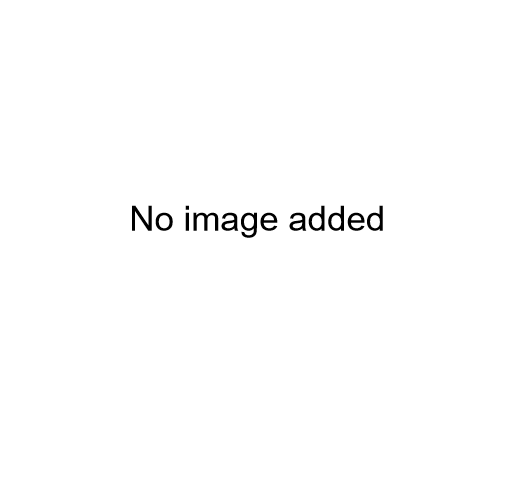
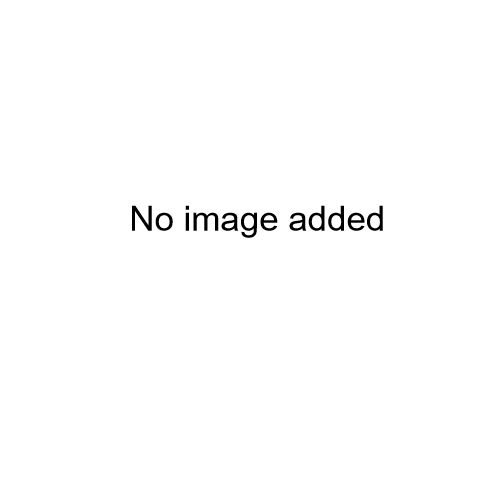
Resized placeholder image; added extra testcase; updated Readme

Changed region(s): [[0.24, 0.3971, 0.78, 0.4888]]

diff --git a/README.md b/README.md
@@ -109,6 +109,8 @@ This page would be for admin only so that they can add new cuisines, or modify t
 + Adding an image works as intended
 + Adding no image adds a default image instead called no_image.png to maintain quality of main page
 
+![testcase8](readme_docs/testcases/testcase8.png "Test Case 8")
+
 ### Test Case: Edit Place
 + All fields are prefilled with database information
 + All fields can be edited and saved
@@ -138,12 +140,10 @@ This page would be for admin only so that they can add new cuisines, or modify t
 ### Log Out
 + Log out functionality works, immediately logging the user out and returning them to the front page
 
-
-
 ### Bugs discovered
 + Properly aligning icons in buttons proved to be a challenge, and also to the 'takeaway' toggle. I ended up having to provide some very specifically-targeted CSS for the takeaway toggle
 + The default text on the 'create place' interface is in three different types of grey - black for the dropdowns, light grey for the image, and mid-grey for the remaining fields. Despite extensive effort, I've not been able to change this.
-+ Late in the production process, some changes I made meant that the first card of a new row rendered on the right hand side rather than the left. 
++ Late in the production process, some changes I made meant that the first card of a new row rendered on the right hand side rather than the left. This was introduced while adding the 'display placeholder image if none is provided' code; ultimately this was fixed by modifying the CSS. Following this, I rechecked the CSS and the app.py using the Code Institute linter, with both still passing with no errors.
 
 ## Code validation
 
@@ -184,7 +184,7 @@ To clone the repository from Github in your editor of choice:
 + Clone the repository by running: git clone https://github.com/stevecook23/angel-food.git
 + Change directories into the cloned repository: cd angel-food
 
-Now you have a copy of the source code and can start to work on it.
+Now you have a copy of the source code and can start to work on it. Bear in mind that the contents of the .env file, or the environment variables throughout the project, will not be publicly available - you will need to provide this file and these details yourself.
 
 ### Entity Relationship Document
 ![entity_relationship_document](readme_docs/testcases/entity_relationship_document.png "Entity Relationship Document")
